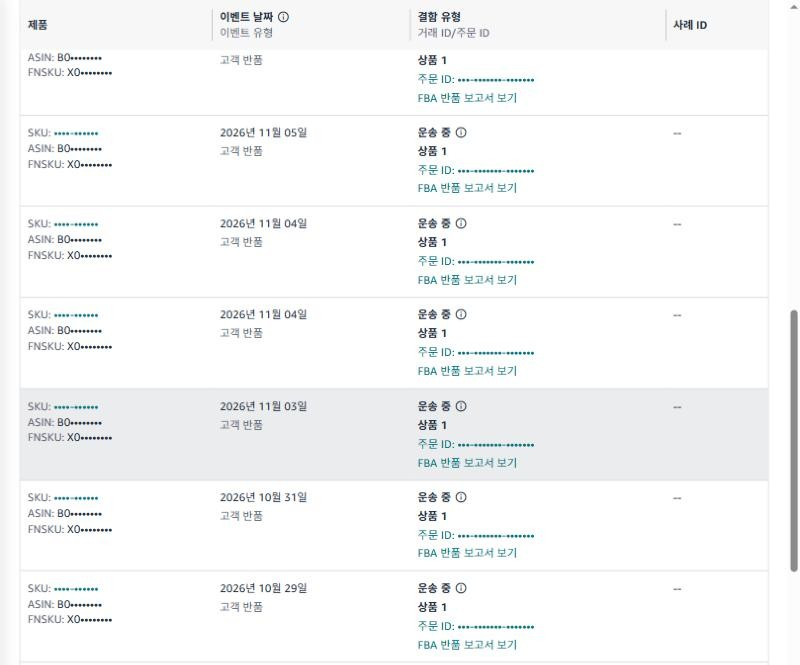
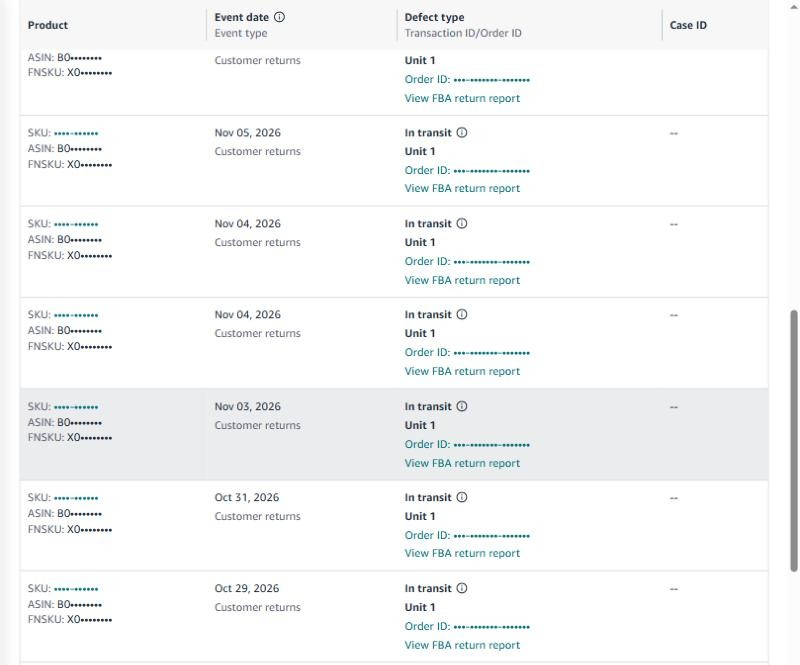
FBA lost inventory post (en): English Seller Central screenshots and matching labels
Claude-Session: https://claude.ai/code/session_01WzhbJFrU4VsYVtkRU2SB2q

diff --git a/content/en/posts/amazon-fba-lost-inventory-claim/index.md b/content/en/posts/amazon-fba-lost-inventory-claim/index.md
@@ -16,7 +16,7 @@ Amazon reimburses most of this automatically, but some cases slip through, and o
 3. File a claim only for what is left
 4. Confirm the payout and any later reversal
 
-> Screens are from US Seller Central with the display language set to Korean, so the labels below give the English menu names. SKUs, ASINs, FNSKUs, order IDs and product names are masked.
+> Screens are from US Seller Central (English). SKUs, ASINs, FNSKUs, order IDs, transaction IDs and product names are masked.
 
 ## First: the deadline depends on where the units went missing
 
@@ -43,19 +43,19 @@ Start in the **Inventory Defect and Reimbursement** portal. In the FBA dashboard
 
 The cards at the top show where units went missing. The filter shows the status of each defect:
 
-- **Eligible for claims**: not yet reimbursed, so **you can file for these yourself**
-- **In progress**: Amazon is investigating
+- **Eligible For Claim**: not yet reimbursed, so **you can file for these yourself**
+- **In Progress**: Amazon is investigating
 - **Resolved**: reimbursed or adjusted, with the cash total shown next to it
 
-On my account, the last 90 days had 53 warehouse defects, all of them resolved. Thirty-three units were paid in cash, \$142.97 in total. **If "Eligible for claims" is 0, there is nothing for you to file.**
+On my account, the last 90 days had 53 warehouse defects, all of them resolved. Thirty-three units were paid in cash, \$142.97 in total. **If "Eligible For Claim" is 0, there is nothing for you to file.**
 
 Click Resolved to see how the cases were settled.
 
 ![Defect types and resolutions](./reimb-resolved-chart.jpg)
 
-*Of the 53 resolved units, 37 were warehouse lost and 16 warehouse damaged. Results: 39 reimbursed, 14 adjusted, 0 ineligible.*
+*Of the 53 resolved units, 37 were warehouse lost and 16 warehouse damaged. Resolution: 39 Reimbursed, 14 Reconciled, 0 Ineligible.*
 
-"Adjusted" mostly means **the unit was found later**. It goes back into your inventory instead of being reimbursed.
+"Reconciled" mostly means **the unit was found later**. It goes back into your inventory instead of being reimbursed.
 
 ## Step 2: Check each case
 
@@ -63,7 +63,7 @@ The list below shows each case's event date, defect type, transaction ID and res
 
 ![Warehouse-lost units reimbursed in cash](./reimb-resolved-cash.jpg)
 
-*Warehouse-lost units marked "Reimbursed" the same day, each with a reimbursement ID and per-unit amount (\$4.07, \$2.60, and so on).*
+*Warehouse-lost units marked "Reimbursed" the same day, each with a reimbursement ID and amount per unit (\$4.07, \$2.60, and so on).*
 
 There are three kinds of result:
 
@@ -71,17 +71,17 @@ There are three kinds of result:
 |---|---|---|
 | Reimbursed + cash | You were paid | Check the amount against your cost |
 | Reimbursed + inventory | Amazon replaced the unit instead of paying | Check your stock count |
-| Adjusted | Found later or re-graded | Nothing (the unit is back) |
+| Reconciled | Found later or re-evaluated | Nothing (the unit is back) |
 
 ![Inventory reimbursement and "found" adjustments](./reimb-resolved-found.jpg)
 
-*Row two was reimbursed with 1 unit of inventory instead of cash. The next two rows say "Adjusted: the item was found," with the related transaction ID.*
+*The middle row was reimbursed with "Inventory reimbursed: 1 unit" instead of cash. The last row is "Reconciled as the item was found," with the related transaction ID.*
 
 The customer returns card shows refunds where the item hasn't come back yet.
 
 ![Customer returns in progress](./returns-in-progress.jpg)
 
-*Customer-return defects in progress. Most are "in transit," so the return is on its way or Amazon is still waiting.*
+*Customer-return defects in progress. Most are "In transit," so the return is on its way or Amazon is still waiting.*
 
 You can only file for customer returns **60 days after the refund**, so at this point you just wait. If the item isn't returned within 60 days, Amazon usually charges the customer and reimburses you.
 
@@ -91,29 +91,29 @@ If the portal shows claimable cases, or the numbers look off, check the actual s
 
 ![Inventory Ledger detailed view filters](./ledger-filter.jpg)
 
-*Choose "Detailed view" and the event type "Adjustments," then filter by reason group: damaged, disposed, found, lost, other.*
+*Choose "Detailed view" and the event type "Adjustments," then filter by reason group: Damaged, Inventory disposed of, Found, Lost, Other.*
 
 ![Inventory Ledger adjustment events](./ledger-adjustments.jpg)
 
-*Adjustment events: "Misplaced -1" (written off as lost) mixed with "Found +1" and "Inventory found in search +1."*
+*Adjustment events: "Inventory misplaced -1" (written off as lost) mixed with "Inventory found +1" and one "Damaged at Amazon fulfillment center -1."*
 
 Here's how to read the reasons:
 
-- **Misplaced / Lost (−)**: the warehouse couldn't find the unit and removed it
-- **Found (+)**: it was found and added back
+- **Inventory misplaced (−)**: the warehouse couldn't find the unit and removed it
+- **Inventory found (+)**: it was found and added back
 - **Damaged at Amazon fulfillment center (−)**: broken in the warehouse
 
-Net the minus and plus events for each FNSKU. Whatever is still missing and hasn't been reimbursed is a claim candidate. Lost units often come back as "Found" within days, which is why claims should wait until Amazon finishes its own search.
+Net the minus and plus events for each FNSKU. Whatever is still missing and hasn't been reimbursed is a claim candidate. Misplaced units often come back as "Inventory found" within days, which is why claims should wait until Amazon finishes its own search.
 
 ## Step 4: Remove what's already paid, using the Reimbursements report
 
-Before filing, take out anything already reimbursed. On the same Fulfillment Reports page, open **Reimbursements** from the left-hand list (under Payments → "More...").
+Before filing, take out anything already reimbursed. On the same Fulfillment Reports page, open **Reimbursements** from the left-hand list (under Payments → "Show more...").
 
 ![Reimbursements report](./reimbursements-report.jpg)
 
-*Two "Lost: Warehouse" payouts of \$4.07 and \$2.60, and two "Reimbursement reversal" rows taking back \$5.84 and \$3.56 while returning 1 unit each.*
+*Two "Lost:Warehouse" payouts of \$4.07 and \$2.60, and two "Reversed Reimbursement" rows taking back \$5.84 and \$3.56 while returning 1 unit each.*
 
-Look at the reversal rows. When Amazon finds a unit it already paid you for, it **takes the money back and returns the unit**: cash quantity −1, inventory quantity +1. The policy says Amazon may reverse the credit if a reimbursed item is found later. So count reversals too, not just payouts, to see what you actually received.
+Look at the Reversed Reimbursement rows. When Amazon finds a unit it already paid you for, it **takes the money back and returns the unit**: Quantity Reimbursed [Cash] −1, [Inventory] +1. The policy says Amazon may reverse the credit if a reimbursed item is found later. So count reversals too, not just payouts, to see what you actually received.
 
 ## Step 5: Check the sourcing cost that sets the payout
 
@@ -121,7 +121,7 @@ The portal's **Sourcing cost** tab shows the cost used to reimburse each product
 
 ![Sourcing cost management](./sourcing-cost.jpg)
 
-*Sourcing cost tab. "Amazon estimate" means Amazon's estimated cost is used. Click "Update" to enter your real cost.*
+*Sourcing cost tab. "Amazon estimated" under cost value source means Amazon's estimate is used. Click "Update" to enter your real cost.*
 
 If you don't enter a cost, Amazon estimates one from similar products. If your real cost is higher, have an invoice ready and update it. Shipping and duties are not part of sourcing cost.
 
@@ -131,12 +131,12 @@ If anything survives steps 1 to 4, file for it.
 
 **Lost or damaged in the warehouse**
 
-- Cases under **Eligible for claims** can be filed straight from the portal, using the transaction ID, FNSKU and quantity shown there.
+- Cases under **Eligible For Claim** can be filed straight from the portal, using the transaction ID, FNSKU and quantity shown there.
 - For cases you found in the ledger but not in the portal, use the tools at the bottom of the "Fulfillment center operations claims" help page. Enter a **transaction ID (TRID)** for damaged units or an **FNSKU** for lost units, up to 25 at a time.
 
 ![Lost and damaged item lookup tools](./lost-item-lookup.jpg)
 
-*The Help page tools. Enter an FNSKU and click Next to see the status of its lost units. In this example one unit was "Reimbursed" and one "Found," so there is nothing to file.*
+*The Help page tools. In "Investigate an Item Lost in Warehouse," enter an FNSKU and click Next to see the status of its lost units. Here one unit was "Reimbursed" and one "Found," so there is nothing to file.*
 
 If a unit is eligible, the tool takes you straight to filing. You may be asked for extra details such as the date or the fulfillment center ID.
 
@@ -155,17 +155,17 @@ If a unit is eligible, the tool takes you straight to filing. You may be asked f
 
 ## Step 7: Confirm the outcome
 
-Track filed claims in **Help (?) → Case Log** (shown as "Support case management").
+Track filed claims in **Help (?) → Manage support cases** (often called the Case Log).
 
 ![Case log](./case-log.jpg)
 
-*The case log shows each case ID, status and Amazon's latest reply (case IDs and titles masked).*
+*Manage support cases shows each case ID, status and Amazon's last reply (case IDs and subjects masked).*
 
 Then cross-check three places:
 
-1. **Inventory Defect and Reimbursement → Resolved**: the result (reimbursed, adjusted, ineligible) and the amount
-2. **Reimbursements report**: the actual payout, and any later reimbursement reversal
-3. **Inventory Ledger**: whether a "Found" event appeared for the same FNSKU
+1. **Inventory Defect and Reimbursement → Resolved**: the result (Reimbursed, Reconciled, Ineligible) and the amount
+2. **Reimbursements report**: the actual payout, and any later Reversed Reimbursement
+3. **Inventory Ledger**: whether an "Inventory found" event appeared for the same FNSKU
 
 If you disagree with a decision, you can file again using the details on the Resolved tab. If you disagree with the payout amount, raise it within 60 days of the reimbursement.
 
@@ -173,15 +173,15 @@ If you disagree with a decision, you can file again using the details on the Res
 
 | What to check | Where |
 |---|---|
-| Anything to file? | Inventory Defect and Reimbursement → Eligible for claims |
-| Is Amazon investigating? | Inventory Defect and Reimbursement → In progress |
+| Anything to file? | Inventory Defect and Reimbursement → Eligible For Claim |
+| Is Amazon investigating? | Inventory Defect and Reimbursement → In Progress |
 | Reimbursed or found? | Inventory Defect and Reimbursement → Resolved |
 | Actual stock movements (lost, found, damaged) | Supply Chain Reports → Inventory Ledger (Detailed, Adjustments) |
 | Money paid and taken back | Fulfillment Reports → Reimbursements |
 | Cost used for payouts | Inventory Defect and Reimbursement → Sourcing cost |
-| Claim progress | Help → Case Log |
+| Claim progress | Help → Manage support cases |
 
-Warehouse losses have a 60-day window, and customer returns run until 120 days after the refund. **Checking "Eligible for claims" once a month** catches almost everything.
+Warehouse losses have a 60-day window, and customer returns run until 120 days after the refund. **Checking "Eligible For Claim" once a month** catches almost everything.
 
 ## Automating the check with SellerMorning
 
